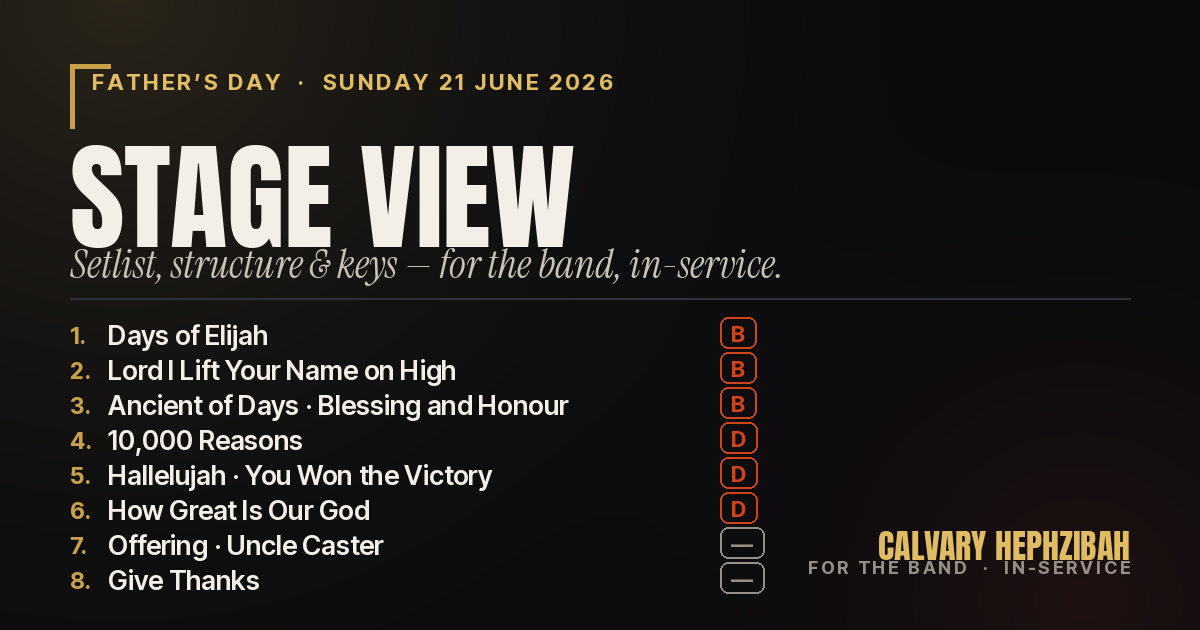
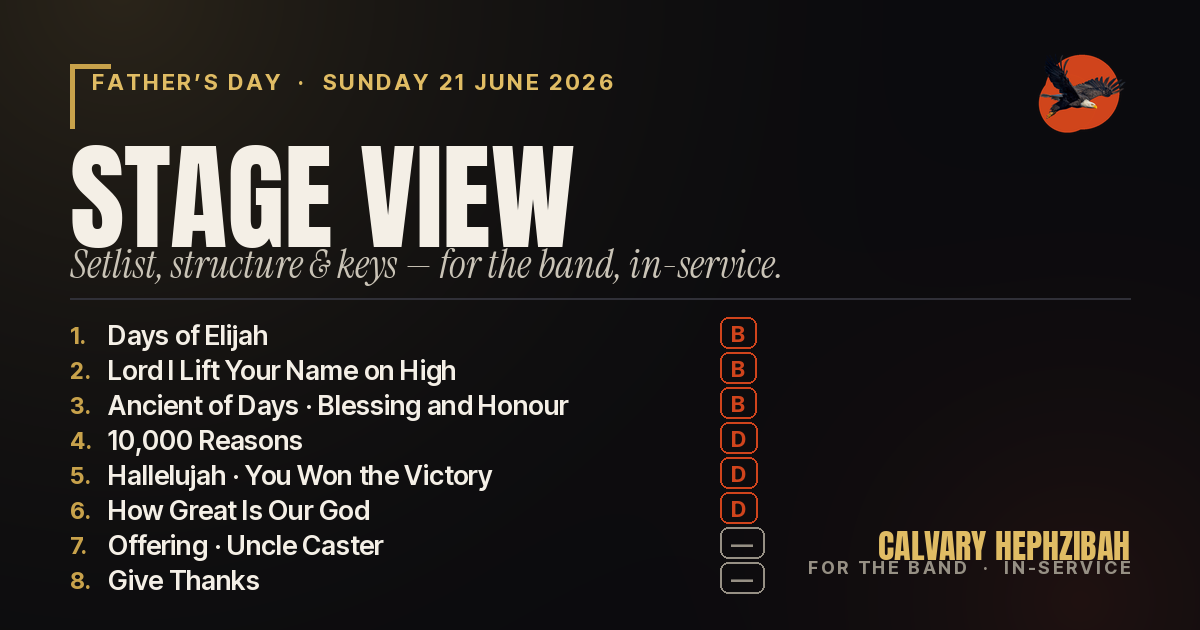
21 Jun: stage OG card now carries the Calvary eagle roundel (top-right) + wordmark; cache-bust v2

Changed region(s): [[0.8633, 0.0905, 0.9558, 0.2111]]

diff --git a/set-runthrough-21-jun-2026/stage/index.html b/set-runthrough-21-jun-2026/stage/index.html
@@ -11,7 +11,7 @@
   <meta property="og:type" content="website">
   <meta property="og:title" content="Stage View · Sunday 21 June 2026">
   <meta property="og:description" content="Setlist, structure and keys on your phone. For the band, in-service.">
-  <meta property="og:image" content="https://calvaryhfgc.github.io/calvaryhephzibah/set-runthrough-21-jun-2026/stage/og-card.png?v=1">
+  <meta property="og:image" content="https://calvaryhfgc.github.io/calvaryhephzibah/set-runthrough-21-jun-2026/stage/og-card.png?v=2">
   <meta property="og:image:width" content="1200">
   <meta property="og:image:height" content="630">
   <meta property="og:image:alt" content="Calvary Hephzibah · Stage View — on-phone lyrics and structure for the band, Sunday 21 June 2026">
@@ -19,7 +19,7 @@
   <meta name="twitter:card" content="summary_large_image">
   <meta name="twitter:title" content="Stage View · Sunday 21 June 2026">
   <meta name="twitter:description" content="Lyrics + structure on your phone. For the band, in-service.">
-  <meta name="twitter:image" content="https://calvaryhfgc.github.io/calvaryhephzibah/set-runthrough-21-jun-2026/stage/og-card.png?v=1">
+  <meta name="twitter:image" content="https://calvaryhfgc.github.io/calvaryhephzibah/set-runthrough-21-jun-2026/stage/og-card.png?v=2">
   <link rel="preconnect" href="https://fonts.googleapis.com">
   <link rel="preconnect" href="https://fonts.gstatic.com" crossorigin>
   <link href="https://fonts.googleapis.com/css2?family=Anton&family=Instrument+Serif&family=Inter+Tight:wght@500;600;700&display=swap" rel="stylesheet">
